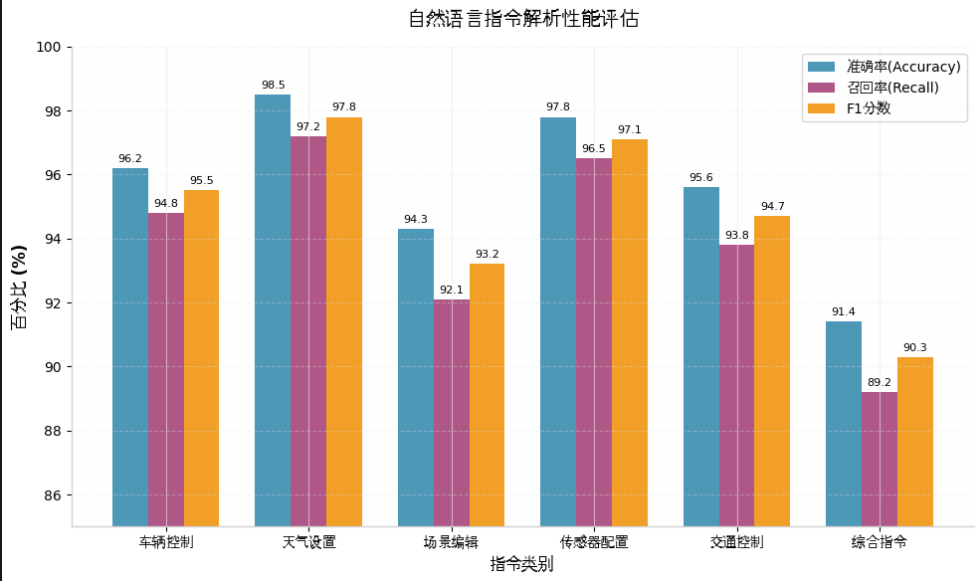
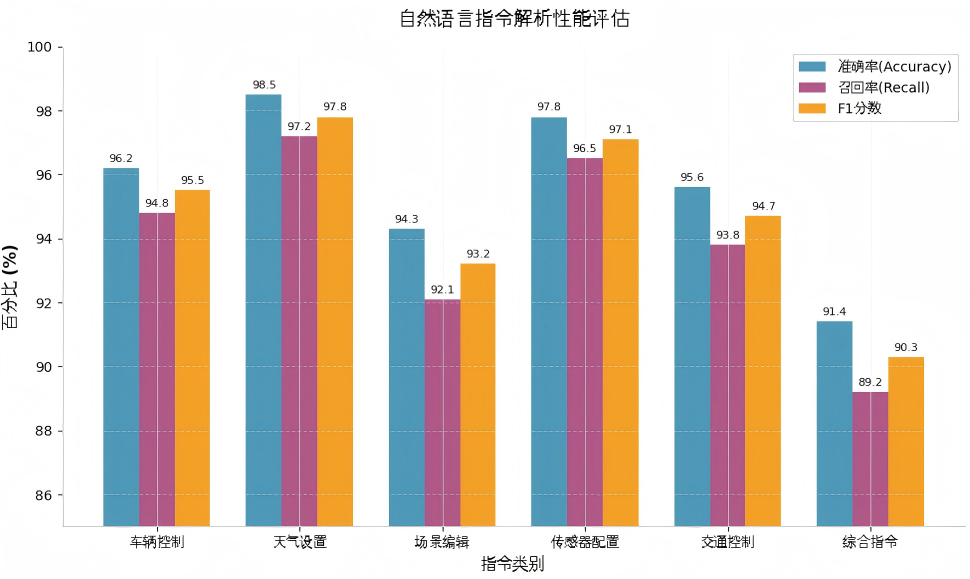
论文修改以及文件名修改 (#640)
* Add files via upload

* Delete mcp/undergraduate/content/chapter1.tex

* Delete mcp/undergraduate/content/chapter2.tex

* Delete mcp/undergraduate/content/chapter3.tex

* Add files via upload

* Add files via upload

* Delete mcp/undergraduate/content/chapter2.tex

* Add files via upload

* Delete mcp/undergraduate/content/chapter3(1).tex

* Add files via upload

* Delete mcp/undergraduate/images/image31.png

* Add files via upload

* Delete mcp/undergraduate/content/chapter1(1).tex

* Add files via upload

* Delete mcp/undergraduate/content/chapter2(1).tex

* Add files via upload

* Delete mcp/undergraduate/content/chapter3(2).tex

* Add files via upload

Pull request: 论文修改以及文件名修改

diff --git a/mcp/undergraduate/images/src/plot_03_interaction_time_fastmcp.m b/mcp/undergraduate/images/src/plot_03_interaction_time_fastmcp.m
@@ -1,0 +1,79 @@
+%% plot_03_interaction_time_fastmcp.m
+% 不同交互方式耗时对比 + FastMCP效率提升倍数
+% 运行后导出：fig_03_interaction_time_fastmcp.png / .svg / .pdf
+
+clear; clc; close all;
+
+set(groot, 'defaultAxesFontName', 'Microsoft YaHei');
+set(groot, 'defaultTextFontName', 'Microsoft YaHei');
+
+categories = {'终端交互','天气切换','传感配置','多车协同调度','复杂交通场景'};
+
+% 左图：平均操作耗时（秒）
+fastmcp = [2.1, 1.8, 3.2, 4.5, 6.8];
+gui     = [15.3, 12.6, 28.4, 45.2, 62.5];
+api     = [8.5, 6.2, 14.3, 22.1, 35.6];
+
+% 右图：效率提升倍数
+speed_gui = gui ./ fastmcp;
+speed_api = api ./ fastmcp;
+
+fig = figure('Color','w','Position',[80 100 1300 560]);
+tiledlayout(1, 2, 'TileSpacing','compact', 'Padding','compact');
+
+% ========= 左子图 =========
+nexttile;
+data1 = [fastmcp; gui; api]';
+b1 = bar(data1, 'grouped', 'BarWidth', 0.72);
+b1(1).FaceColor = [0.21 0.62 0.78];
+b1(2).FaceColor = [0.93 0.36 0.42];
+b1(3).FaceColor = [0.45 0.67 0.36];
+
+grid on; box off;
+ax = gca;
+ax.XTick = 1:numel(categories);
+ax.XTickLabel = categories;
+ax.FontSize = 10;
+ax.GridAlpha = 0.22;
+ylabel('平均操作时间（秒）','FontSize',12,'FontWeight','bold');
+title('不同交互方式耗时对比','FontSize',13,'FontWeight','bold');
+legend({'FastMCP自然语言','传统GUI操作','命令行调用'}, 'Location','northwest','Box','on');
+ylim([0 70]);
+
+for i = 1:numel(b1)
+    xtips = b1(i).XEndPoints;
+    ytips = b1(i).YEndPoints;
+    labels = string(sprintfc('%.1fs', b1(i).YData));
+    text(xtips, ytips + 1.0, labels, 'HorizontalAlignment','center', ...
+        'FontSize',8.5,'FontWeight','bold');
+end
+
+% ========= 右子图 =========
+nexttile;
+data2 = [speed_gui; speed_api]';
+b2 = bar(data2, 'grouped', 'BarWidth', 0.70);
+b2(1).FaceColor = [0.93 0.36 0.42];
+b2(2).FaceColor = [0.45 0.67 0.36];
+
+grid on; box off;
+ax = gca;
+ax.XTick = 1:numel(categories);
+ax.XTickLabel = categories;
+ax.FontSize = 10;
+ax.GridAlpha = 0.22;
+ylabel('效率提升倍数','FontSize',12,'FontWeight','bold');
+title('FastMCP效率提升倍数','FontSize',13,'FontWeight','bold');
+legend({'相对GUI提升倍数','相对API提升倍数'}, 'Location','northwest','Box','on');
+ylim([0 11]);
+
+for i = 1:numel(b2)
+    xtips = b2(i).XEndPoints;
+    ytips = b2(i).YEndPoints;
+    labels = string(sprintfc('%.1fx', b2(i).YData));
+    text(xtips, ytips + 0.20, labels, 'HorizontalAlignment','center', ...
+        'FontSize',8.5,'FontWeight','bold');
+end
+
+exportgraphics(fig, 'fig_03_interaction_time_fastmcp.png', 'Resolution', 300);
+exportgraphics(fig, 'fig_03_interaction_time_fastmcp.pdf', 'ContentType','vector');
+exportgraphics(fig, 'fig_03_interaction_time_fastmcp.svg', 'ContentType','vector');

diff --git a/mcp/undergraduate/images/src/plot_05_24h_stability_test.m b/mcp/undergraduate/images/src/plot_05_24h_stability_test.m
@@ -1,0 +1,69 @@
+%% plot_05_24h_stability_test.m
+% 24小时连续运行稳定性测试
+% 运行后导出：fig_05_24h_stability_test.png / .svg / .pdf
+
+clear; clc; close all;
+
+set(groot, 'defaultAxesFontName', 'Microsoft YaHei');
+set(groot, 'defaultTextFontName', 'Microsoft YaHei');
+
+time = 0:2:24;
+mem = [450, 455, 462, 470, 478, 482, 486, 490, 488, 492, 496, 499, 501];     % MB
+cpu = [33.0, 32.2, 31.6, 30.8, 30.0, 29.2, 28.4, 27.6, 27.2, 26.7, 26.2, 25.7, 25.3]; % %
+latency = [45, 46, 48, 50, 52, 55, 58, 62, 65, 68, 72, 75, 78];             % ms
+threshold = 100 * ones(size(time));
+
+fig = figure('Color','w','Position',[100 100 1150 650]);
+tiledlayout(2, 1, 'TileSpacing','compact', 'Padding','compact');
+
+% ========= 上图：内存与CPU =========
+nexttile;
+yyaxis left;
+p1 = plot(time, mem, '-o', 'LineWidth', 2.0, 'MarkerSize', 5.5, ...
+    'Color',[0.10 0.20 0.95], 'MarkerFaceColor',[0.10 0.20 0.95]);
+ylabel('内存占用 (MB)','FontSize',12,'FontWeight','bold');
+ylim([400 540]);
+gca().YColor = [0.10 0.20 0.95];
+
+yyaxis right;
+p2 = plot(time, cpu, '-s', 'LineWidth', 2.0, 'MarkerSize', 5.5, ...
+    'Color',[0.10 0.55 0.10], 'MarkerFaceColor',[0.10 0.55 0.10]);
+ylabel('CPU使用率 (%)','FontSize',12,'FontWeight','bold');
+ylim([20 34]);
+gca().YColor = [0.10 0.55 0.10];
+
+title('24小时连续运行稳定性测试','FontSize',14,'FontWeight','bold');
+legend([p1 p2], {'内存占用(MB)','CPU使用率(%)'}, 'Location','northwest','Box','on');
+grid on; box off;
+ax = gca;
+ax.XLim = [0 24];
+ax.XTick = 0:4:24;
+ax.GridAlpha = 0.22;
+
+% ========= 下图：响应延迟 =========
+nexttile;
+hold on;
+area(time, latency, 40, 'FaceColor',[1.0 0.45 0.45], 'FaceAlpha',0.28, 'EdgeColor','none');
+p3 = plot(time, latency, '-o', 'LineWidth', 2.0, 'MarkerSize', 5.5, ...
+    'Color',[1.0 0.14 0.12], 'MarkerFaceColor',[1.0 0.14 0.12]);
+p4 = plot(time, threshold, '--', 'LineWidth', 1.8, 'Color',[1.0 0.50 0.10]);
+
+for i = 1:numel(time)
+    text(time(i), latency(i)+2.0, sprintf('%dms', latency(i)), ...
+        'HorizontalAlignment','center', 'FontSize',8.5, ...
+        'Color',[1.0 0.14 0.12], 'FontWeight','bold');
+end
+
+ylabel('响应延迟 (ms)','FontSize',12,'FontWeight','bold');
+xlabel('运行时间（小时）','FontSize',12);
+ylim([40 105]);
+xlim([0 24]);
+xticks(0:4:24);
+legend([p3 p4], {'平均响应延迟','可接受延迟阈值(100ms)'}, 'Location','northwest','Box','on');
+grid on; box off;
+ax = gca;
+ax.GridAlpha = 0.22;
+
+exportgraphics(fig, 'fig_05_24h_stability_test.png', 'Resolution', 300);
+exportgraphics(fig, 'fig_05_24h_stability_test.pdf', 'ContentType','vector');
+exportgraphics(fig, 'fig_05_24h_stability_test.svg', 'ContentType','vector');

diff --git a/mcp/undergraduate/images/src/plot_02_ambiguous_command_mechanism.m b/mcp/undergraduate/images/src/plot_02_ambiguous_command_mechanism.m
@@ -1,0 +1,60 @@
+%% plot_02_ambiguous_command_mechanism.m
+% 歧义指令处理机制效果评估
+% 运行后导出：fig_02_ambiguous_command_mechanism.png / .svg / .pdf
+
+clear; clc; close all;
+
+set(groot, 'defaultAxesFontName', 'Microsoft YaHei');
+set(groot, 'defaultTextFontName', 'Microsoft YaHei');
+
+categories = {'同义词歧义','参数缺失','多意图混合','模糊位置','危险驾驶'};
+before = [72.3, 65.8, 58.4, 68.5, 45.2];
+after  = [91.5, 89.2, 85.6, 93.8, 82.4];
+improve = after - before;
+
+data = [before; after]';
+
+fig = figure('Color','w','Position',[100 100 1050 560]);
+b = bar(data, 'grouped', 'BarWidth', 0.70);
+
+b(1).FaceColor = [0.93 0.36 0.42];   % 红
+b(2).FaceColor = [0.31 0.61 0.74];   % 蓝
+
+ax = gca;
+ax.XTick = 1:numel(categories);
+ax.XTickLabel = categories;
+ax.FontSize = 11;
+ax.LineWidth = 1.0;
+ax.GridAlpha = 0.22;
+grid on;
+box off;
+
+ylim([40 100]);
+ylabel('解析准确率 (%)','FontSize',13,'FontWeight','bold');
+xlabel('歧义指令类型','FontSize',12);
+title('歧义指令处理机制效果评估','FontSize',14,'FontWeight','bold');
+legend({'引入歧义处理前','引入歧义处理后'}, 'Location','northeast', 'Box','on');
+
+% 数值标注
+for i = 1:numel(b)
+    xtips = b(i).XEndPoints;
+    ytips = b(i).YEndPoints;
+    labels = string(sprintfc('%.1f%%', b(i).YData));
+    text(xtips, ytips + 0.8, labels, 'HorizontalAlignment','center', ...
+        'VerticalAlignment','bottom','FontSize',9,'FontWeight','bold');
+end
+
+% 改进幅度标注
+for i = 1:numel(categories)
+    xmid = mean([b(1).XEndPoints(i), b(2).XEndPoints(i)]);
+    ytop = max(before(i), after(i)) + 7;
+    text(xmid, ytop, sprintf('+%.1f%%', improve(i)), ...
+        'HorizontalAlignment','center', 'FontSize',10, ...
+        'FontWeight','bold', 'Color',[0.00 0.55 0.10]);
+end
+
+set(gca, 'LooseInset', max(get(gca,'TightInset'), 0.02));
+
+exportgraphics(fig, 'fig_02_ambiguous_command_mechanism.png', 'Resolution', 300);
+exportgraphics(fig, 'fig_02_ambiguous_command_mechanism.pdf', 'ContentType','vector');
+exportgraphics(fig, 'fig_02_ambiguous_command_mechanism.svg', 'ContentType','vector');

diff --git a/mcp/undergraduate/images/src/plot_01_nlp_command_performance.m b/mcp/undergraduate/images/src/plot_01_nlp_command_performance.m
@@ -1,0 +1,54 @@
+%% plot_01_nlp_command_performance.m
+% 自然语言指令解析性能评估
+% 运行后导出：fig_01_nlp_command_performance.png / .svg / .pdf
+
+clear; clc; close all;
+
+% 字体设置：Windows 优先使用 Microsoft YaHei，论文排版较稳
+set(groot, 'defaultAxesFontName', 'Microsoft YaHei');
+set(groot, 'defaultTextFontName', 'Microsoft YaHei');
+
+categories = {'车辆控制','天气设置','场景编辑','传感器配置','交通控制','综合指令'};
+accuracy = [96.2, 98.5, 94.3, 97.8, 95.6, 91.4];
+recall   = [94.8, 97.2, 92.1, 96.5, 93.8, 89.2];
+f1score  = [95.5, 97.8, 93.2, 97.1, 94.7, 90.3];
+
+data = [accuracy; recall; f1score]';
+
+fig = figure('Color','w','Position',[100 100 1100 560]);
+b = bar(data, 'grouped', 'BarWidth', 0.76);
+
+% 配色接近原图
+b(1).FaceColor = [0.31 0.61 0.74];   % 蓝
+b(2).FaceColor = [0.74 0.31 0.56];   % 紫红
+b(3).FaceColor = [1.00 0.63 0.13];   % 橙
+
+ax = gca;
+ax.XTick = 1:numel(categories);
+ax.XTickLabel = categories;
+ax.FontSize = 11;
+ax.LineWidth = 1.0;
+ax.GridAlpha = 0.22;
+grid on;
+box off;
+
+ylim([86 100]);
+ylabel('百分比 (%)','FontSize',13,'FontWeight','bold');
+xlabel('指令类别','FontSize',12);
+title('自然语言指令解析性能评估','FontSize',14,'FontWeight','bold');
+legend({'准确率(Accuracy)','召回率(Recall)','F1分数'}, 'Location','northeast', 'Box','on');
+
+% 数值标注
+for i = 1:numel(b)
+    xtips = b(i).XEndPoints;
+    ytips = b(i).YEndPoints;
+    labels = string(sprintfc('%.1f', b(i).YData));
+    text(xtips, ytips + 0.18, labels, 'HorizontalAlignment','center', ...
+        'VerticalAlignment','bottom','FontSize',9,'FontWeight','bold');
+end
+
+set(gca, 'LooseInset', max(get(gca,'TightInset'), 0.02));
+
+exportgraphics(fig, 'fig_01_nlp_command_performance.png', 'Resolution', 300);
+exportgraphics(fig, 'fig_01_nlp_command_performance.pdf', 'ContentType','vector');
+exportgraphics(fig, 'fig_01_nlp_command_performance.svg', 'ContentType','vector');

diff --git a/mcp/undergraduate/images/src/plot_04_concurrency_latency_success.m b/mcp/undergraduate/images/src/plot_04_concurrency_latency_success.m
@@ -1,0 +1,54 @@
+%% plot_04_concurrency_latency_success.m
+% 系统并发性能与响应延迟测试
+% 运行后导出：fig_04_concurrency_latency_success.png / .svg / .pdf
+
+clear; clc; close all;
+
+set(groot, 'defaultAxesFontName', 'Microsoft YaHei');
+set(groot, 'defaultTextFontName', 'Microsoft YaHei');
+
+x = [1, 5, 10, 20, 50, 100];
+latency = [45, 52, 68, 95, 180, 320];         % ms
+success = [100.0, 100.0, 98.5, 96.2, 92.8, 85.3];  % %
+
+fig = figure('Color','w','Position',[100 100 1150 560]);
+
+yyaxis left;
+p1 = plot(x, latency, '-o', 'LineWidth', 2.0, 'MarkerSize', 7, ...
+    'Color',[0.17 0.55 0.75], 'MarkerFaceColor',[0.17 0.55 0.75]);
+ylabel('平均响应延迟 (ms)','FontSize',13,'FontWeight','bold');
+ylim([0 400]);
+ax = gca;
+ax.YColor = [0.17 0.55 0.75];
+
+for i = 1:numel(x)
+    text(x(i), latency(i)+10, sprintf('%dms', latency(i)), ...
+        'HorizontalAlignment','center', 'FontSize',9, ...
+        'Color',[0.17 0.55 0.75], 'FontWeight','bold');
+end
+
+yyaxis right;
+p2 = plot(x, success, '-s', 'LineWidth', 2.0, 'MarkerSize', 7, ...
+    'Color',[0.95 0.29 0.34], 'MarkerFaceColor',[0.95 0.29 0.34]);
+ylabel('指令执行成功率 (%)','FontSize',13,'FontWeight','bold');
+ylim([80 105]);
+ax.YColor = [0.95 0.29 0.34];
+
+for i = 1:numel(x)
+    text(x(i), success(i)-1.3, sprintf('%.1f%%', success(i)), ...
+        'HorizontalAlignment','center', 'FontSize',9, ...
+        'Color',[0.95 0.29 0.34], 'FontWeight','bold');
+end
+
+xlabel('并发指令数量','FontSize',12);
+title('系统并发性能与响应延迟测试','FontSize',14,'FontWeight','bold');
+grid on; box off;
+ax = gca;
+ax.XLim = [0 105];
+ax.XTick = [0 20 40 60 80 100];
+ax.GridAlpha = 0.22;
+legend([p1 p2], {'响应延迟','成功率'}, 'Location','east','Box','on');
+
+exportgraphics(fig, 'fig_04_concurrency_latency_success.png', 'Resolution', 300);
+exportgraphics(fig, 'fig_04_concurrency_latency_success.pdf', 'ContentType','vector');
+exportgraphics(fig, 'fig_04_concurrency_latency_success.svg', 'ContentType','vector');

diff --git a/mcp/undergraduate/content/chapter2.tex b/mcp/undergraduate/content/chapter2.tex
@@ -45,8 +45,7 @@ HUTB/CARLA仿真器是一个基于Unreal Engine
 Vehicle_{state}=f(Throttle,Steer,Brake,Autopilot)
 \label{eq:vehicle-state}
 \end{equation}
-
-式中，Throttle代表油门控制量，Steer表示转向角，Brake显示制动强度，Autopilot是自动驾驶使能标志。
+式中，$Throttle$代表油门控制量，$Steer$表示转向角，$Brake$显示制动强度，$Autopilot$是自动驾驶使能标志。
 
 \begin{figure}[H]
 \centering

diff --git a/mcp/undergraduate/images/src/README.md b/mcp/undergraduate/images/src/README.md
@@ -1,0 +1,12 @@
+MATLAB 绘图源码说明
+
+1. 本文件夹内共有 5 个独立 .m 文件，一个图片对应一个 MATLAB 源码文件。
+2. 在 MATLAB 中进入本文件夹，分别运行：
+   - plot_01_nlp_command_performance.m
+   - plot_02_ambiguous_command_mechanism.m
+   - plot_03_interaction_time_fastmcp.m
+   - plot_04_concurrency_latency_success.m
+   - plot_05_24h_stability_test.m
+3. 每个脚本都会自动导出 PNG、PDF、SVG 三种格式。
+4. 建议论文中插入 PNG 或 PDF；提交“可编辑原图”时，把 .m 源码和 .svg/.pdf 一起放到 figures 或 images 目录。
+5. 如果中文字体显示异常，请把脚本里的 Microsoft YaHei 改成 SimHei 或宋体。